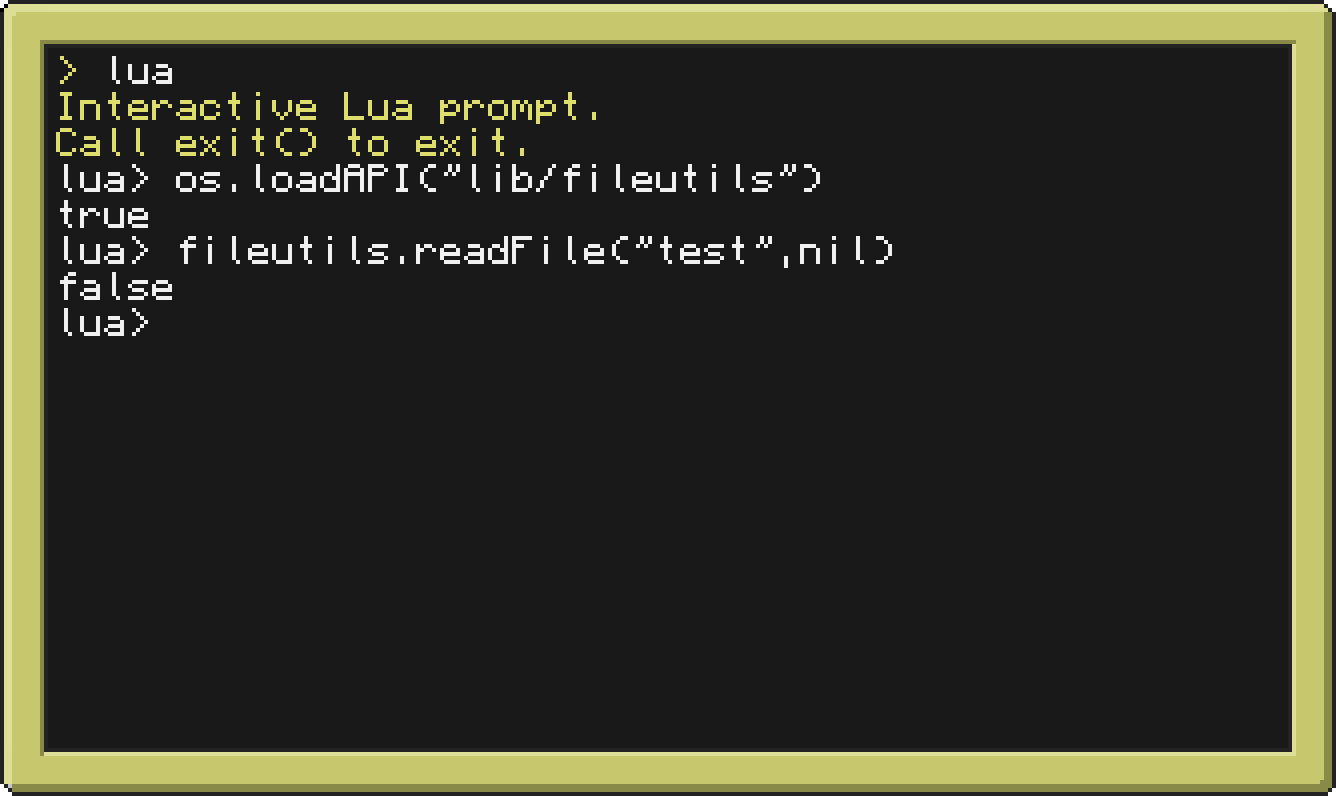
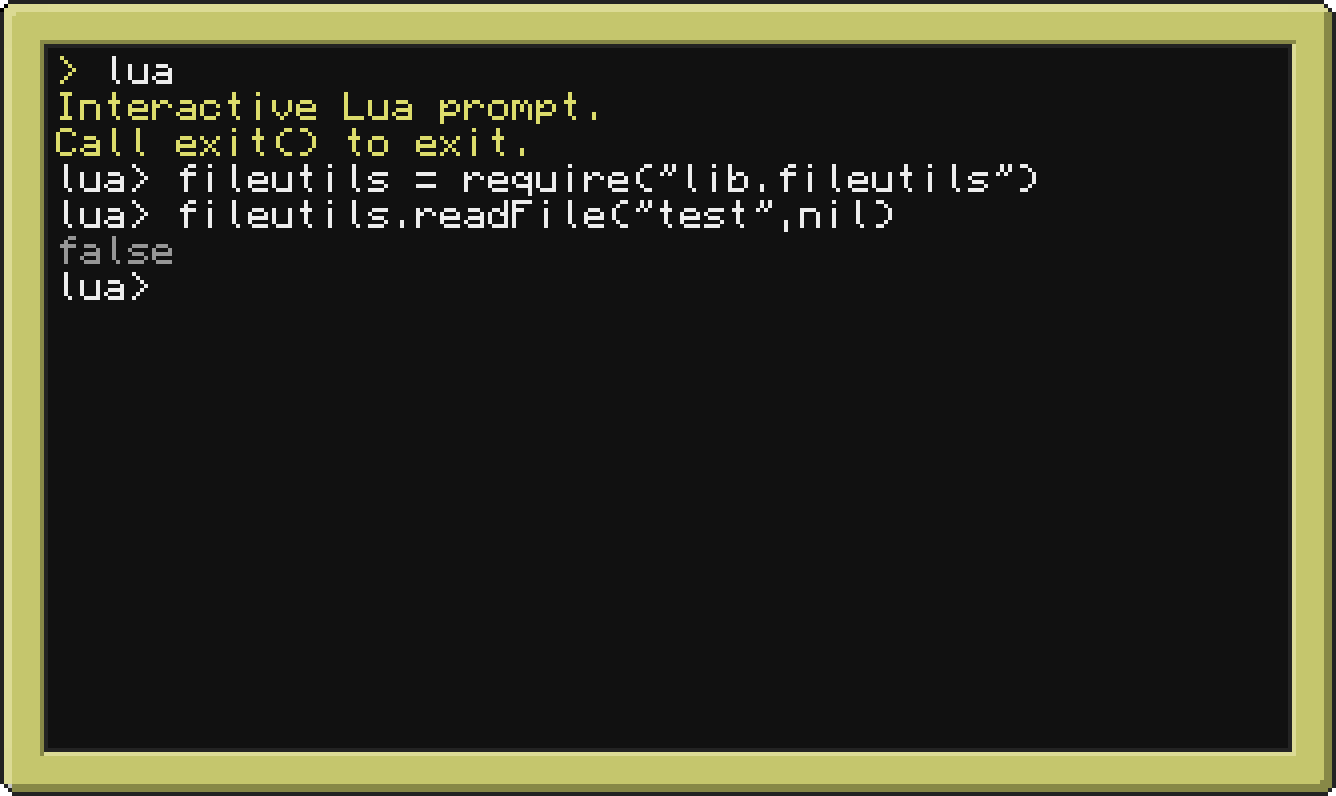
New include method, cleanup readme

Changed region(s): [[0.0307, 0.1809, 0.7672, 0.4221]]

diff --git a/README.md b/README.md
@@ -6,7 +6,7 @@
 [![contributors](https://img.shields.io/github/contributors/computercraft-package-tool/fileutils)](https://github.com/computercraft-package-tool/fileutils/graphs/contributors)
 [![activity](https://img.shields.io/github/commit-activity/m/computercraft-package-tool/fileutils)](https://github.com/computercraft-package-tool/fileutils/commits/main)
 [![lastcommit](https://img.shields.io/github/last-commit/computercraft-package-tool/fileutils)](https://github.com/computercraft-package-tool/fileutils/commits/main)<br>
-![size](https://img.shields.io/github/languages/code-size/Pentagcomputercraft-package-toolonLP/fileutils)
+![size](https://img.shields.io/github/languages/code-size/computercraft-package-tool/fileutils)
 ![files](https://img.shields.io/github/directory-file-count/computercraft-package-tool/fileutils)
 ![languages](https://img.shields.io/github/languages/count/computercraft-package-tool/fileutils)<br>
 
@@ -23,23 +23,24 @@ Install the library:
 ```
 ccpt install fileutils
 ```
-The library will now be stored in "/lib/fileutils".
+The library will now be stored in "/lib/fileutils.lua".
 
 ## How to use
 
-### **1. Check if file exists**  
-The function **file_exists([filepath])** returns true if the file exists or false if it doesn't.
+### 1. **Include in your project**
 
-*Example:*  
-Content of *"test"*:
+The FileUtils library can be included in your project by using the older ```dofile(...)```-method, or the newer ```require(...)```-method (availible only in [CC: Tweaked](https://tweaked.cc/)):
+
+```lua
+-- Using dofile(...)
+local fileutils = dofile("/lib/fileutils.lua")
+-- Using require(...)
+local fileutils = require("lib.fileutils")
 ```
-hi, how are you?
-```
-Example code and output:
-<br><img
-    alt="missing image :("
-    src="https://raw.githubusercontent.com/computercraft-package-tool/fileutils/main/img/file_exists.png"
-/><br>  
+
+In both instances, the methods of the library can be accessed as members of the return value of the method, e.g. ```fileutils.readFile(...)```.
+
+**Using *os.loadAPI("lib/fileutils")* in order to include the library won't work anymore!** See also [deprecation notice](https://tweaked.cc/module/os.html#v:loadAPI) of the method.
 
 ### **2. Store some content in a file**  
 The function **storeFile([filepath],[content])** stores [content], given as a string, in a file specified by the given [filepath]. This will overwrite the file if it already exists!
@@ -131,11 +132,14 @@ Content of *"test"*:
 ```
 
 ## Changelog
-Nothing here yet, we are still on 1.0 :)
+**Version 1.1**
+- ```file_exists(...)``` removed, just use ```fs.exists(path)``` instead (Also see the [CC: Tweaked documentation](https://tweaked.cc/module/fs.html#v:exists) of the method)
+- Update method to include the library using ```dofile(...)``` or ```require(...)```, as ```os.loadAPI(...)``` is (rightfully) [deprecated]((https://tweaked.cc/module/os.html#v:loadAPI))
+- Add ```.lua```-extension to the library file (syntax highlighting in editors etc.). The only reason we did not have this before is that file extensions did not work with ```os.loadAPI(...)```, which is no longer supported with FileUtils version 1.1 anyways.
 
 ## Last words
 First of all, thanks for reading! This library is not the biggest library ever, but it turned out to be really useful for one of my projects, and maybe it is for yours too :)  
 If you find bugs, please create an issue so I can fix them.  
-I'm still very new to Github, so feel free to point out things I could do better. Also, english is not my first language, so if you find any spelling/language-related mistakes, please do also create an issue.  
+I'm not that confident with GitHub yet, so feel free to point out things I could do better. Also, english is not my first language, so if you find any spelling/language-related mistakes, please do also create an issue.  
 Have a nice day,  
 PentagonLP
